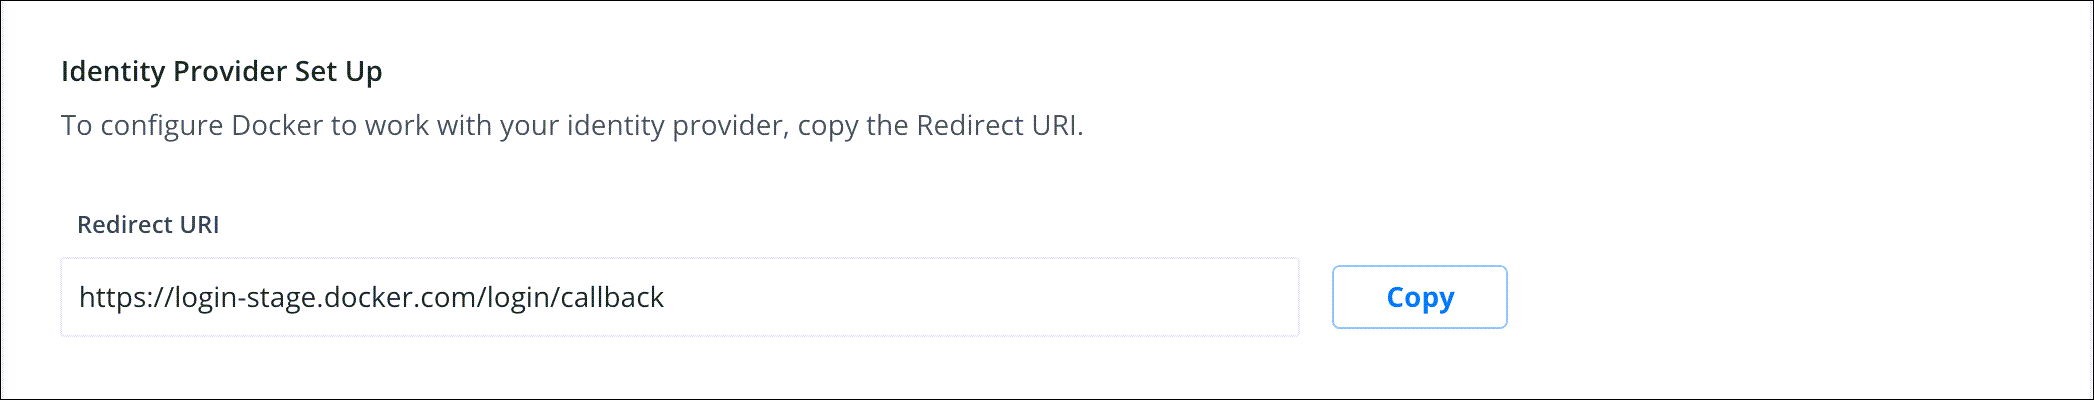
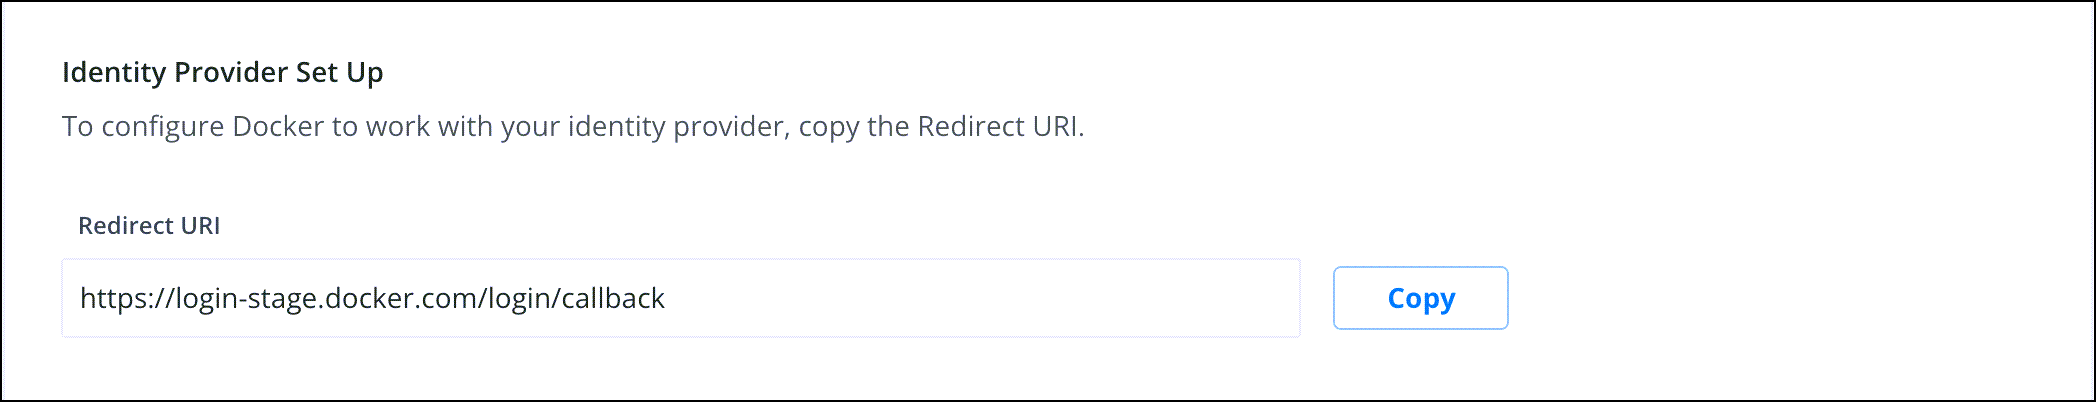
fixed formatting

diff --git a/single-sign-on/index.md b/single-sign-on/index.md
@@ -24,6 +24,7 @@ We currently support enabling SSO on a single organization. If you have any user
 * Verify that your org members have Docker Desktop version 4.4.0 installed on their machines
 * Each org member must create a Personal Access Token (PAT) to replace their passwords
 * Confirm that all CI/CD pipelines have replaced their passwords with PATs
+* For your service accounts, add your additional domains or enable it in your IdP
 * Test SSO using your domain email address and IdP password to successfully log in and log out of Docker Hub
 
 ## Create a Personal Access Token (PAT)
@@ -49,9 +50,9 @@ To configure SSO, log into [Docker Hub](https://hub.docker.com){: target="_blank
 
 5. Log into your IdP to complete the IdP server configuration process. Refer to your IdP documentation for detailed instructions.
 
-> **Note:**
-> the NameID is your email address and is set as the default.
-> For example, <Subject><NameID>yourname@mycompany.com</NameID>.
+    > **Note:**
+    > the NameID is your email address and is set as the default.
+    > For example, <Subject><NameID>yourname@mycompany.com</NameID>.
 
 6. Complete the fields in the **Configuration Settings** section and click **Save**. If you want to change your IdP, you must delete your existing provider and configure SSO with your new IdP.
 
@@ -71,9 +72,9 @@ To configure SSO, log into [Docker Hub](https://hub.docker.com){: target="_blank
 
 5. Log into your IdP to complete the IdP server configuration process. Refer to your IdP documentation for detailed instructions.
 
-> **Note:**
-> the NameID is your email address and is set as the default.
-> For example: <Subject><NameID>yourname@mycompany.com</NameID>.
+    > **Note:**
+    > the NameID is your email address and is set as the default.
+    > For example: <Subject><NameID>yourname@mycompany.com</NameID>.
 
 6. Complete the fields in the **Configuration Settings** section and click **Save**. If you want to change your IdP, you must delete your existing provider and configure SSO with your new IdP.
 
@@ -89,6 +90,8 @@ Click **Add Domain** and specify the corporate domain you’d like to manage wit
 > Public domains such as gmail.com, outlook.com, etc are not permitted.
 > Also, the email domain should be set as the primary email.
 
+![SSO Domain](images/sso-domain.png){:width="500px"}
+
 ### Domain verification
 
 To verify ownership of a domain, add a TXT record to your Domain Name System (DNS) settings.
@@ -103,11 +106,11 @@ To verify ownership of a domain, add a TXT record to your Domain Name System (DN
 
 3. After you have updated the fields, click **Save**.
 
-> **Note:**
->
-> It can take up to 72 hours for DNS changes to take effect, depending on
-> your DNS host. The Domains table will have an Unverified status during
-> this time.
+    > **Note:**
+    >
+    > It can take up to 72 hours for DNS changes to take effect, depending on
+    > your DNS host. The Domains table will have an Unverified status during
+    > this time.
 
 4. In the Security section of your Docker organization, click **Verify** next to the domain you want to verify after 72 hours.
 
@@ -121,7 +124,7 @@ After you’ve completed the SSO configuration process in Docker Hub, you can te
 ## Enforce SSO in Docker Hub
 
 Before you enforce SSO in Docker Hub, you must complete the following:
-Test SSO by logging in and out successfully, confirm that all members in your org have upgraded to Docker Desktop version 4.4.0, PATs are created for each member, CI/CD passwords are converted to PAT. Also, when using Docker partner products (for example, VS Code), you must use a PAT when you enforce SSO.
+Test SSO by logging in and out successfully, confirm that all members in your org have upgraded to Docker Desktop version 4.4.2, PATs are created for each member, CI/CD passwords are converted to PAT. Also, when using Docker partner products (for example, VS Code), you must use a PAT when you enforce SSO. For your service accounts add your additional domains in **Add Domains** or enable the accounts in your IdP.
 
 Admins can force users to authenticate with Docker Desktop by provisioning a registry.json configuration file. The registry.json file will force users to authenticate as a user that is configured in the allowedOrgs list in the registry.json file. For info on how to configure a registry.json file see Configure registry.json.
 
@@ -135,7 +138,7 @@ Admins can force users to authenticate with Docker Desktop by provisioning a reg
 > forced to authenticate through your IdP and can log into Docker using
 > their personal credentials.
 
-    ![SSO Enforced](images/sso-enforce.png){:width="500px"}
+![SSO Enforced](images/sso-enforce.png){:width="500px"}
 
 ## Manage users when SSO is enabled
 
